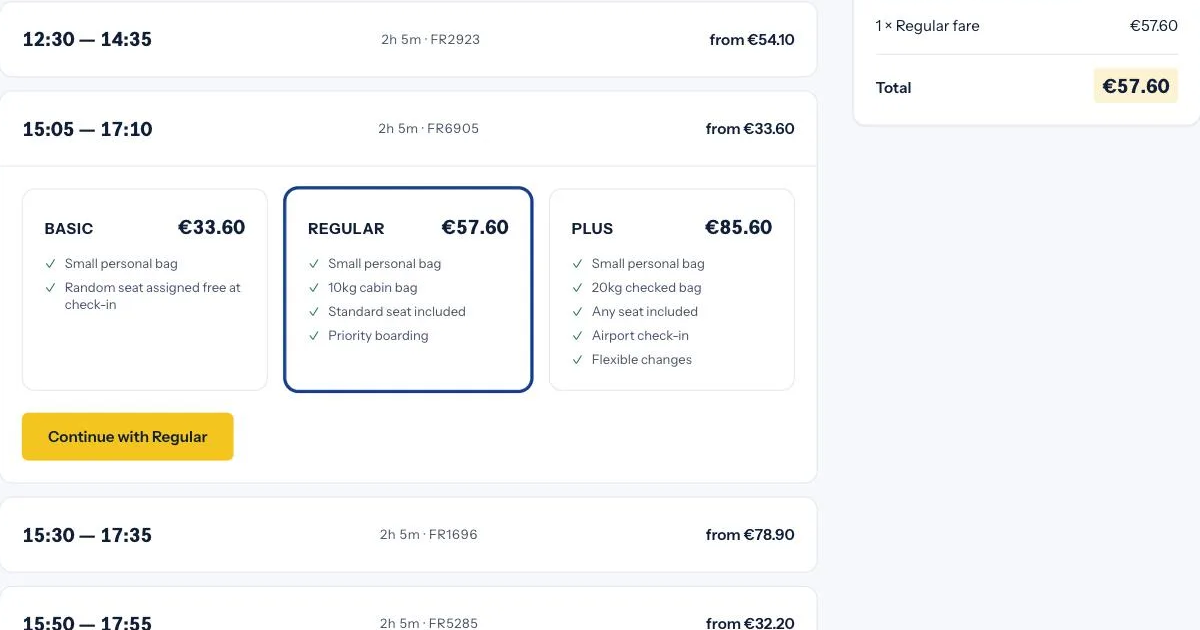
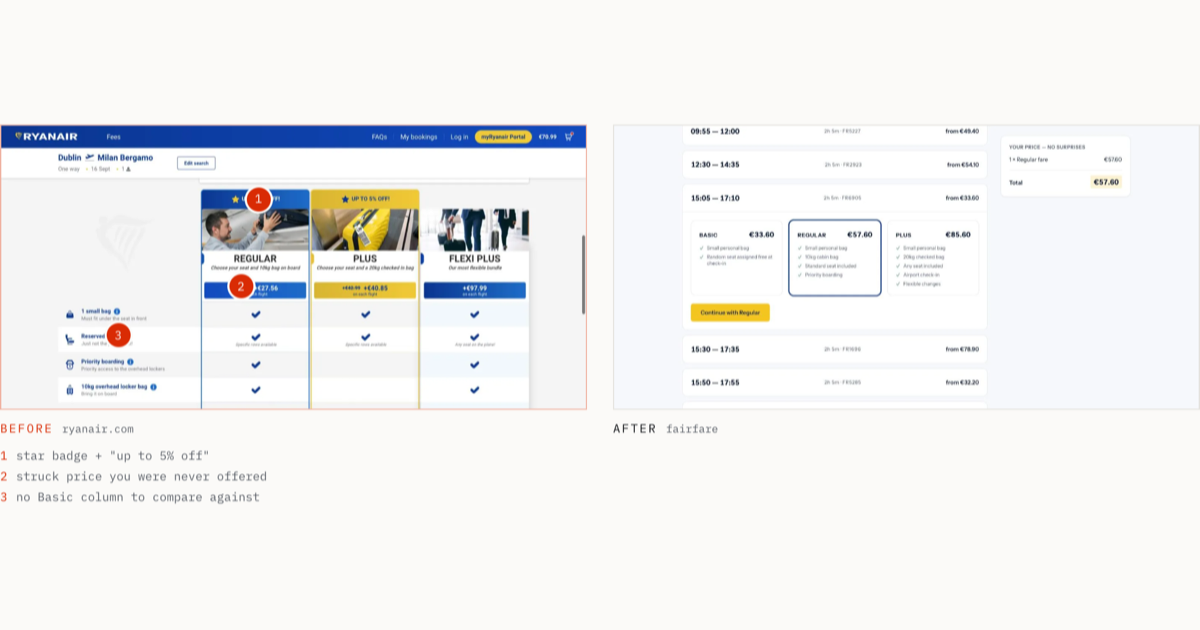
fix: faded stepper and seat-map text failed WCAG AA at 1.94:1
Lighthouse on /book flagged four contrast failures: upcoming steps in the
Stepper and the row numbers in the SeatMap were set with opacity, which put them
at 1.94:1 against white. They now use a --color-muted token measured at 4.6:1,
so state is still de-emphasised without dropping below AA.

Also regenerates og.png from the exhibit-04 before/after pair — the previous one
showed only the rebuilt fare table, which doesn't convey what the case argues.

diff --git a/src/components/SeatMap.tsx b/src/components/SeatMap.tsx
@@ -52,7 +52,7 @@ export function SeatMap({ flightId, tier, selected, onToggle }: {
                 aria-pressed={isSel}
                 aria-label={`Seat ${id}, ${zone}, ${eur(seatCents(id, tier))}${isTaken ? ', taken' : ''}`}
                 className={`h-8 w-8 rounded-sm text-[0.625rem] font-semibold transition-colors duration-200
-                  ${isTaken ? `cursor-not-allowed ${TAKEN} text-ink/45`
+                  ${isTaken ? `cursor-not-allowed ${TAKEN} text-muted`
                     : isSel ? 'bg-navy text-white'
                     : zone === 'front' ? 'bg-navy/25 text-ink hover:bg-navy/45'
                     : zone === 'exit' ? 'bg-ok/25 text-ink hover:bg-ok/45'
@@ -61,7 +61,7 @@ export function SeatMap({ flightId, tier, selected, onToggle }: {
               </button>
             )
             return ci === 2
-              ? [cell, <span key={`${row}-aisle`} aria-hidden className="w-6 text-center text-[0.625rem] leading-8 text-body/40">{row}</span>]
+              ? [cell, <span key={`${row}-aisle`} aria-hidden className="w-6 text-center text-[0.625rem] leading-8 text-muted">{row}</span>]
               : [cell]
           }),
         )}

diff --git a/src/components/Stepper.tsx b/src/components/Stepper.tsx
@@ -4,7 +4,7 @@ export function Stepper({ current }: { current: number }) {
     <ol aria-label="Booking steps" className="flex gap-2 text-xs font-semibold uppercase tracking-wider">
       {STEPS.map((s, i) => (
         <li key={s} aria-current={i === current ? 'step' : undefined}
-          className={i === current ? 'text-navy' : i < current ? 'text-ink/60' : 'text-body/40'}>
+          className={i === current ? 'text-navy' : i < current ? 'text-body' : 'text-muted'}>
           {s}{i < STEPS.length - 1 && <span aria-hidden className="mx-2 text-line">—</span>}
         </li>
       ))}

diff --git a/src/styles/index.css b/src/styles/index.css
@@ -16,6 +16,7 @@
   --color-sun: #f5c518;        /* yellow — scarce marker: primary CTA + running total */
   --color-paper: #f7f8fb;      /* light base */
   --color-line: #e3e7ef;       /* borders */
+  --color-muted: #6e7688;      /* de-emphasised text — 4.6:1 on white, still AA */
   --color-ok: #1b7a4f;
   --color-err: #c4314b;
 
